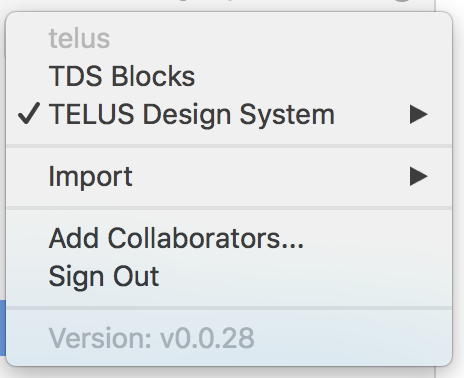
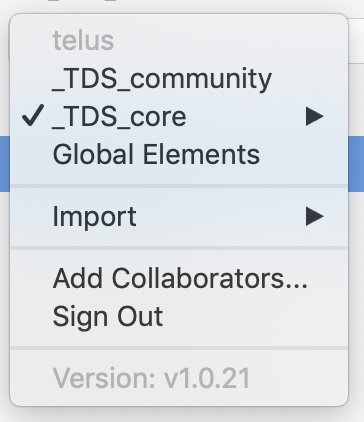
docs(guide): update dsm info

Changed region(s): [[0.0, 0.0, 1.0, 0.9894]]

diff --git a/guide/getting-started/designers.md b/guide/getting-started/designers.md
@@ -22,7 +22,7 @@ There are a variety of plugins available for Sketch. Here is a short list of plu
 
 - [Craft Manager](https://www.invisionapp.com/craft): Suite of plugins by Invision to help streamline your workflow. (**Note:** This is required to use the DSM Component library)
 
-- [Paddy](https://github.com/DWilliames/paddy-sketch-plugin): Create components with fixed padding (**Note**: Used for automatic resizing of our button component)
+- [Paddy](https://github.com/DWilliames/paddy-sketch-plugin): Create components with fixed padding
 
 #### Recommended
 
@@ -110,7 +110,7 @@ There are two component libraries available in TDS to help you with your designs
   </tr>
   <tr>
     <td><img src="craftmanager7.png" /></td>
-    <td>Both the TDS component and TDS block libraries (and any other libraries you belong to) should now appear in the DSM window.</td>
+    <td>The TDS Core, TDS Community, and Global Elements libraries (and any other libraries you belong to) should now appear in the DSM window.</td>
   </tr>
     <tr>
     <td><img src="craftmanager8.png" /></td>
